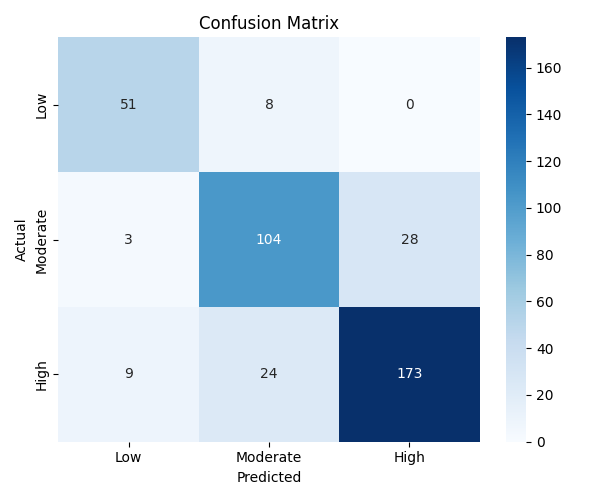
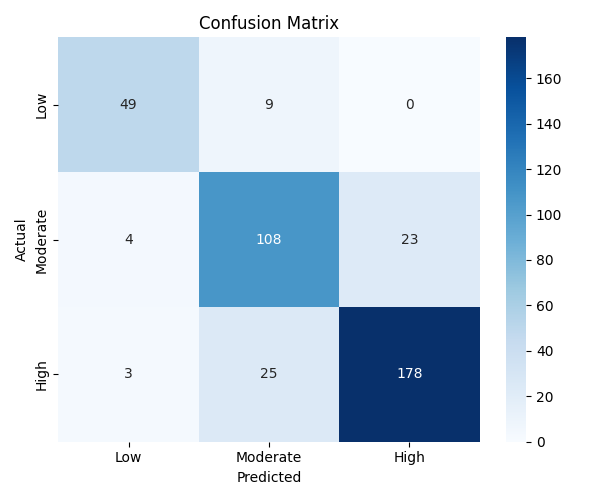
Outliers are now removed

diff --git a/main.py b/main.py
@@ -21,7 +21,7 @@ def main():
     # exploratory data analysis
     # draw_plots(df_clean)
     
-    le = get_label_encoder(df)
+    le = get_label_encoder(df_clean)
     
     # separate features and target
     X, y = separate_features_and_target(df_clean)
@@ -142,8 +142,25 @@ def clean_data(df):
     print(df.duplicated().sum())
     print("\n")
     
-    df.dropna(inplace=True)
-    return df
+    df_clean = df.dropna(inplace=False)
+    return df_clean
+
+def remove_outliers(df):
+    numeric_cols = df.select_dtypes(include=['number']).columns
+    
+    df_clean = df.copy()
+    
+    for col in numeric_cols:
+        Q1 = df[col].quantile(0.25)
+        Q3 = df[col].quantile(0.75)
+        IQR = Q3 - Q1
+
+        lower_bound = Q1 - 1.5 * IQR
+        upper_bound = Q3 + 1.5 * IQR
+
+        df_clean = df_clean[(df_clean[col] >= lower_bound) & (df_clean[col] <= upper_bound)]
+    
+    return df_clean
 
 def order_data_stress_level(df):
     df["Stress_Level"] = pd.Categorical(
@@ -185,6 +202,7 @@ def preprocess_data(df):
     df.drop("Student_ID", axis=1, inplace=True)
     df_clean = clean_data(df)
     order_data_stress_level(df_clean)
+    df_clean = remove_outliers(df_clean)
     return df_clean
 
 def normalize_features(X_train, X_test):
